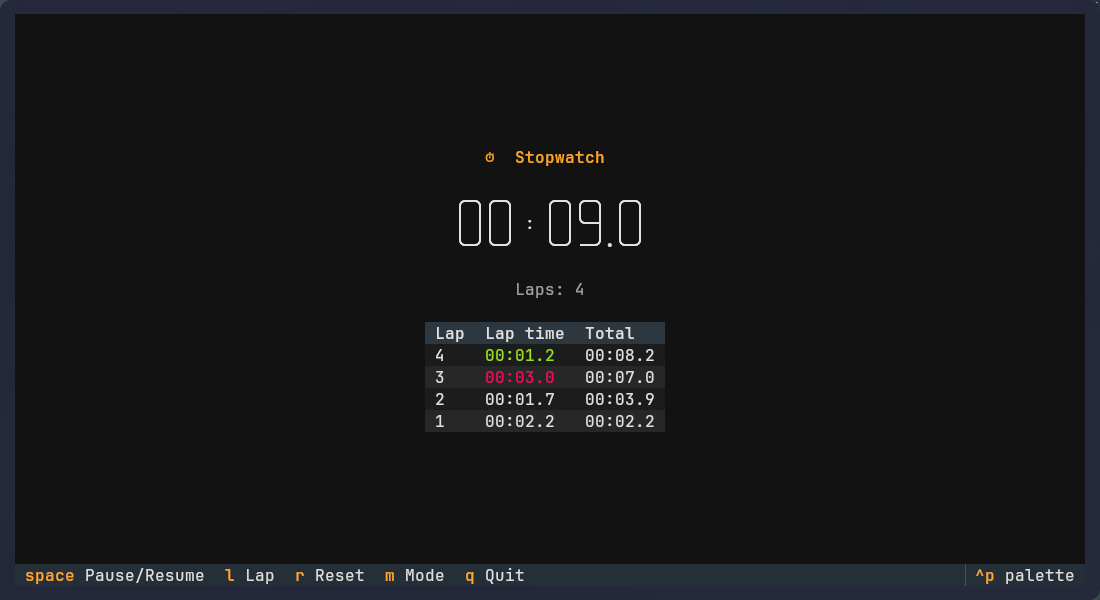
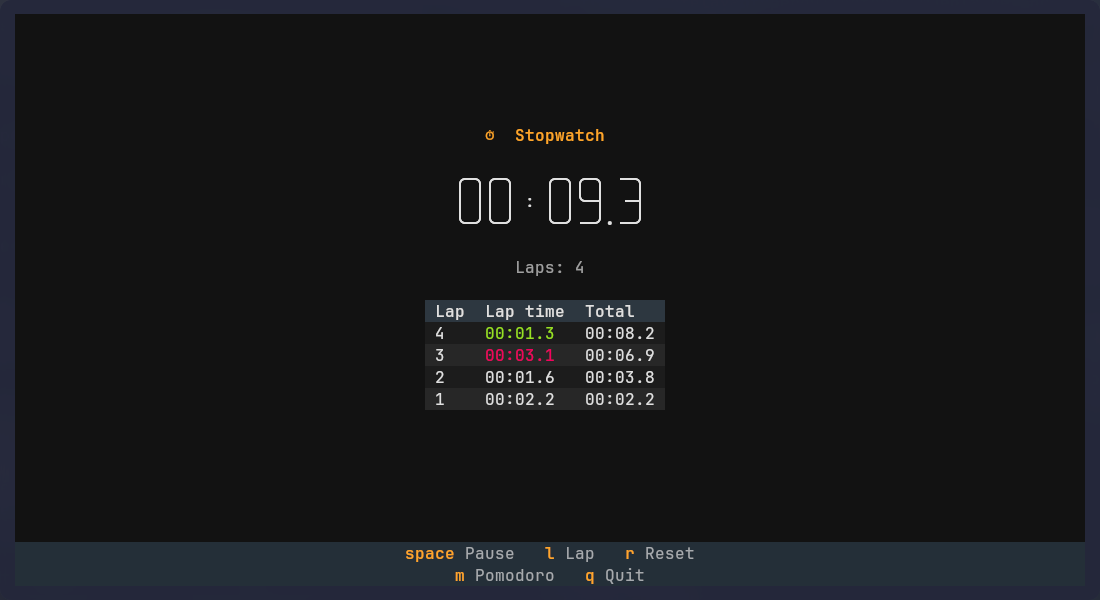
Replace footer with two-line contextual key hints
Group hints by role (timer keys, then app keys), show only the keys
available in the current mode, and label them with what they do now.
Hints wrap by whole items on narrow terminals; labels are clickable.
Update the README keys section and screenshots accordingly.

diff --git a/README.md b/README.md
@@ -74,8 +74,22 @@ pomo --lang en          # force the UI language
 pomo --stopwatch        # start in stopwatch mode
 ```
 
-Keys: `space` pause/resume · `n` next phase · `r` reset · `p` switch profile ·
-`m` pomodoro/stopwatch mode · `l` lap (stopwatch) · `q` quit.
+### Keys
+
+| Group | Key       | Pomodoro                  | Stopwatch                |
+|-------|-----------|---------------------------|--------------------------|
+| Timer | `space`   | start / pause / resume    | start / pause / resume   |
+| Timer | `n` / `l` | `n`: next phase           | `l`: record a lap        |
+| Timer | `r`       | reset the current phase   | reset the time and laps  |
+| App   | `p`       | switch profile            | —                        |
+| App   | `m`       | switch to the stopwatch   | switch to the pomodoro   |
+| App   | `q`       | quit                      | quit                     |
+
+The key hints at the bottom of the screen follow the same layout: timer keys on the first line,
+app keys on the second. They only list the keys available in the current mode and say what each
+key does right now (`space` shows Start, Pause or Resume; `m` shows the mode it switches to).
+Labels are clickable, and on narrow terminals the hints wrap without splitting a key from its label.
+
 Waybar: click = pause/resume, right click = next phase (or lap in stopwatch mode).
 
 The waybar module shows the remaining time (here: work running, work paused, short break,
